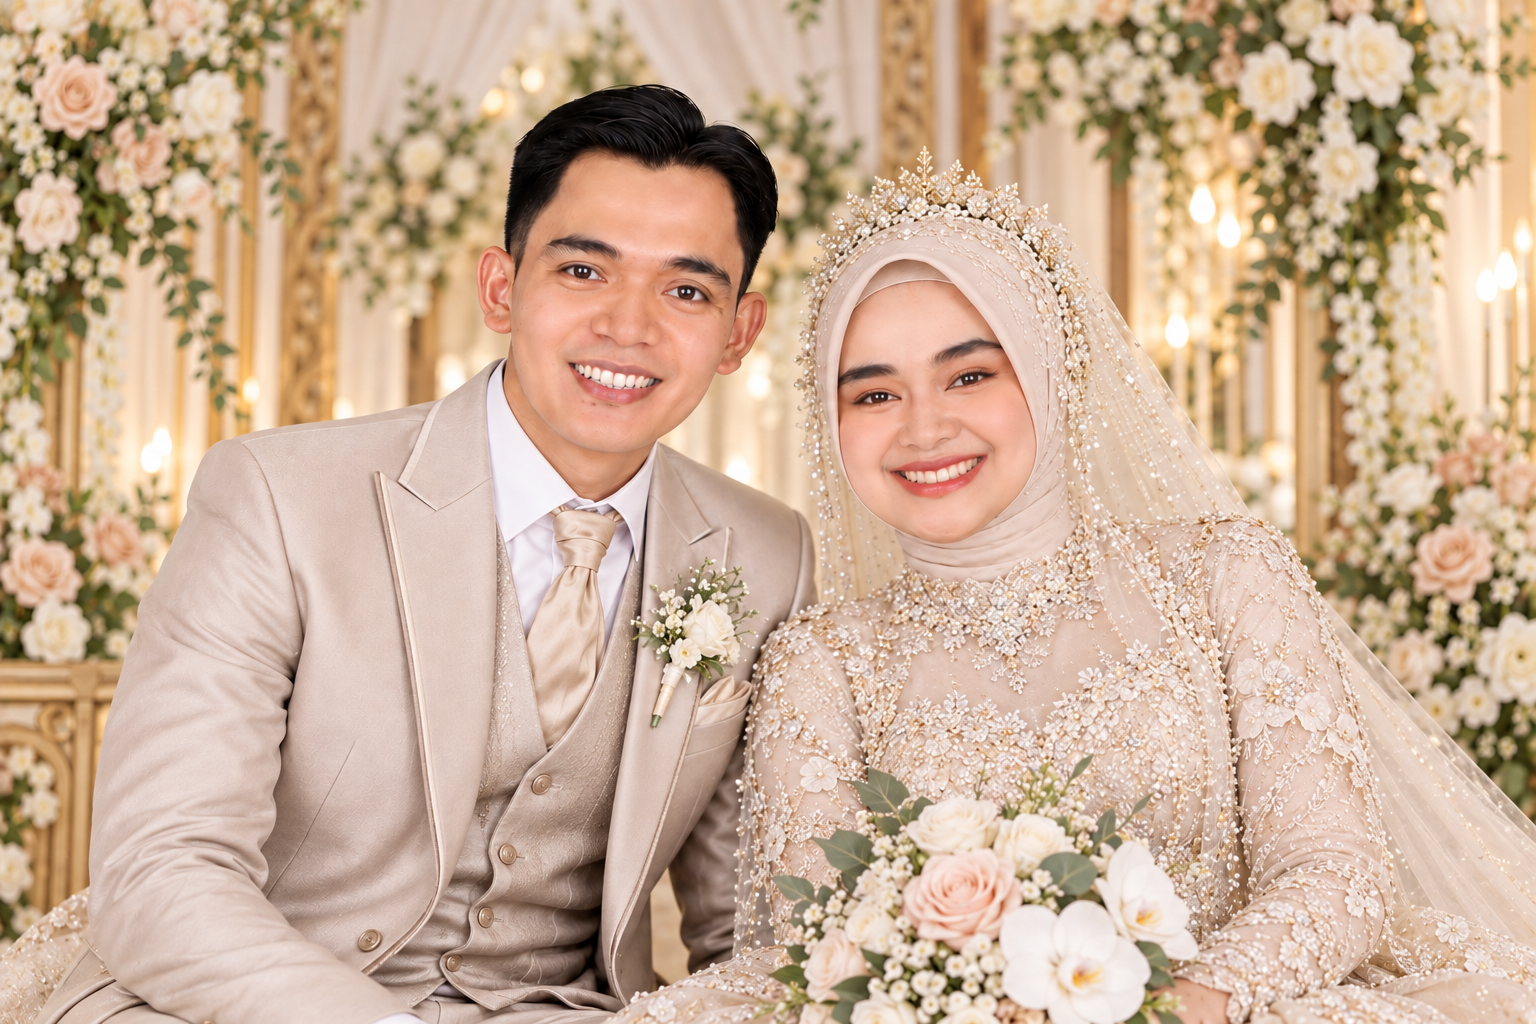
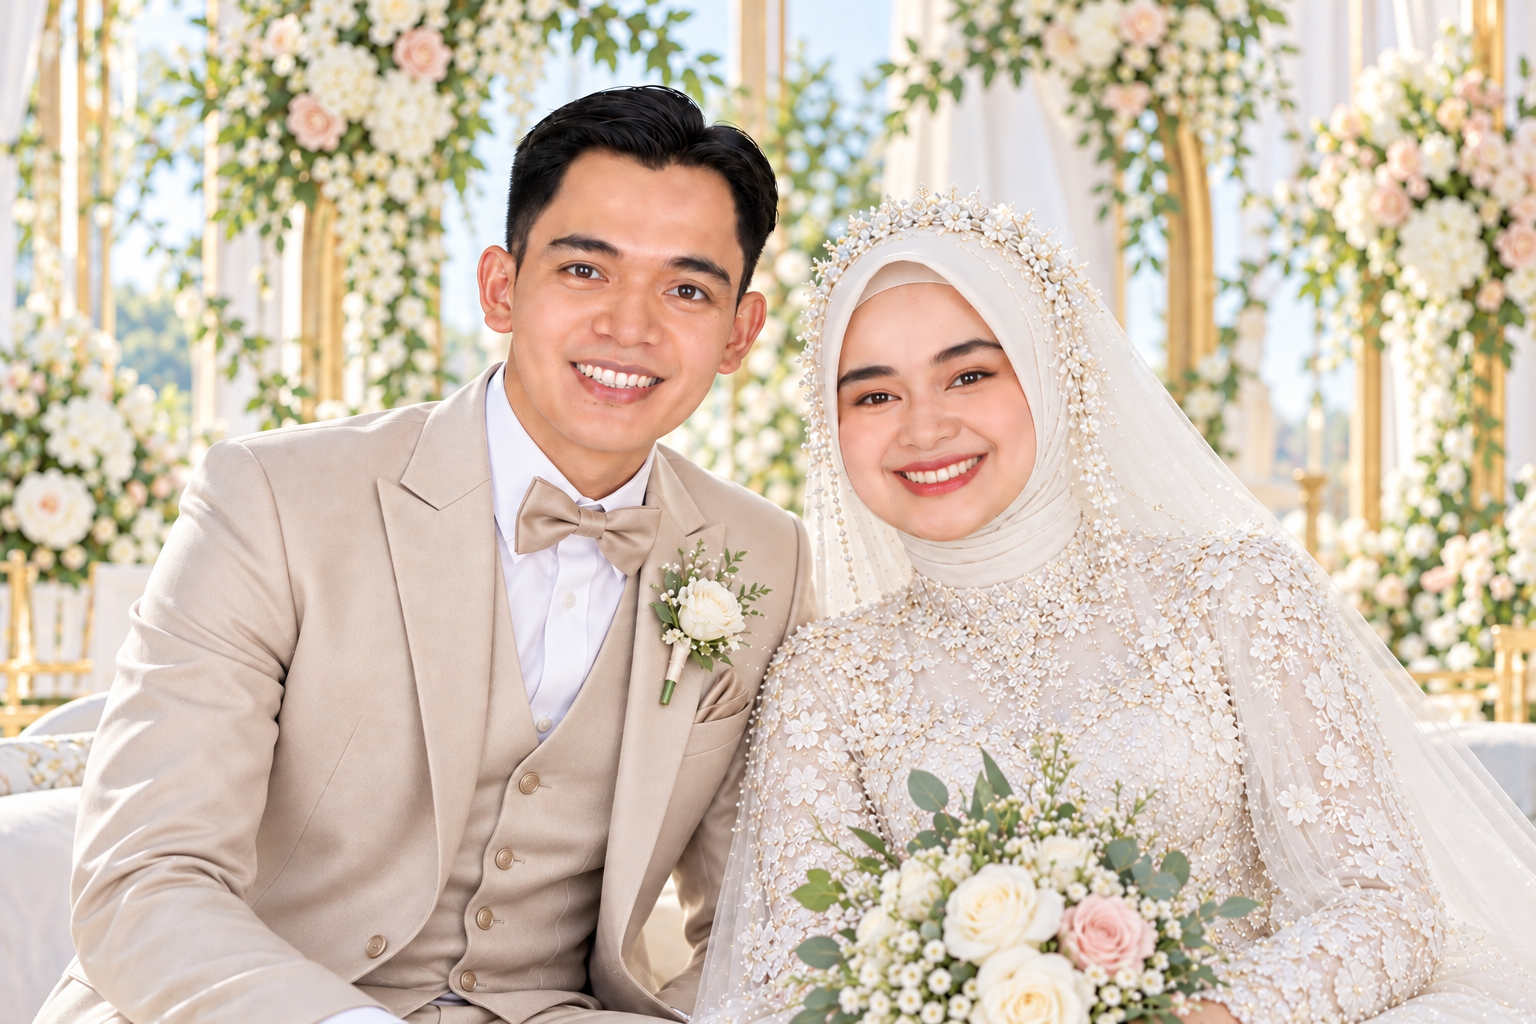
update galeri

diff --git a/script.js b/script.js
@@ -116,8 +116,8 @@ function initMusic() {
 
 // ---------- Gallery ----------
 const galleryImages = [
-  'assets/galeri/1.png','assets/galeri/2.png','assets/galeri/3.png','assets/galeri/4.png',
-  'assets/galeri/5.png','assets/galeri/6.png','assets/galeri/7.png','assets/galeri/8.png'
+  'assets/galeri/1.png','assets/galeri/2.jpeg','assets/galeri/3.png','assets/galeri/4.png',
+  'assets/galeri/5.jpeg','assets/galeri/6.png','assets/galeri/7.jpeg','assets/galeri/8.png'
 ];
 const galleryLabels = ['Momen Bahagia','Kebersamaan','Cinta','Tawa','Kenangan','Janji','Doa','Harapan'];
 let galleryIndex = 0;
